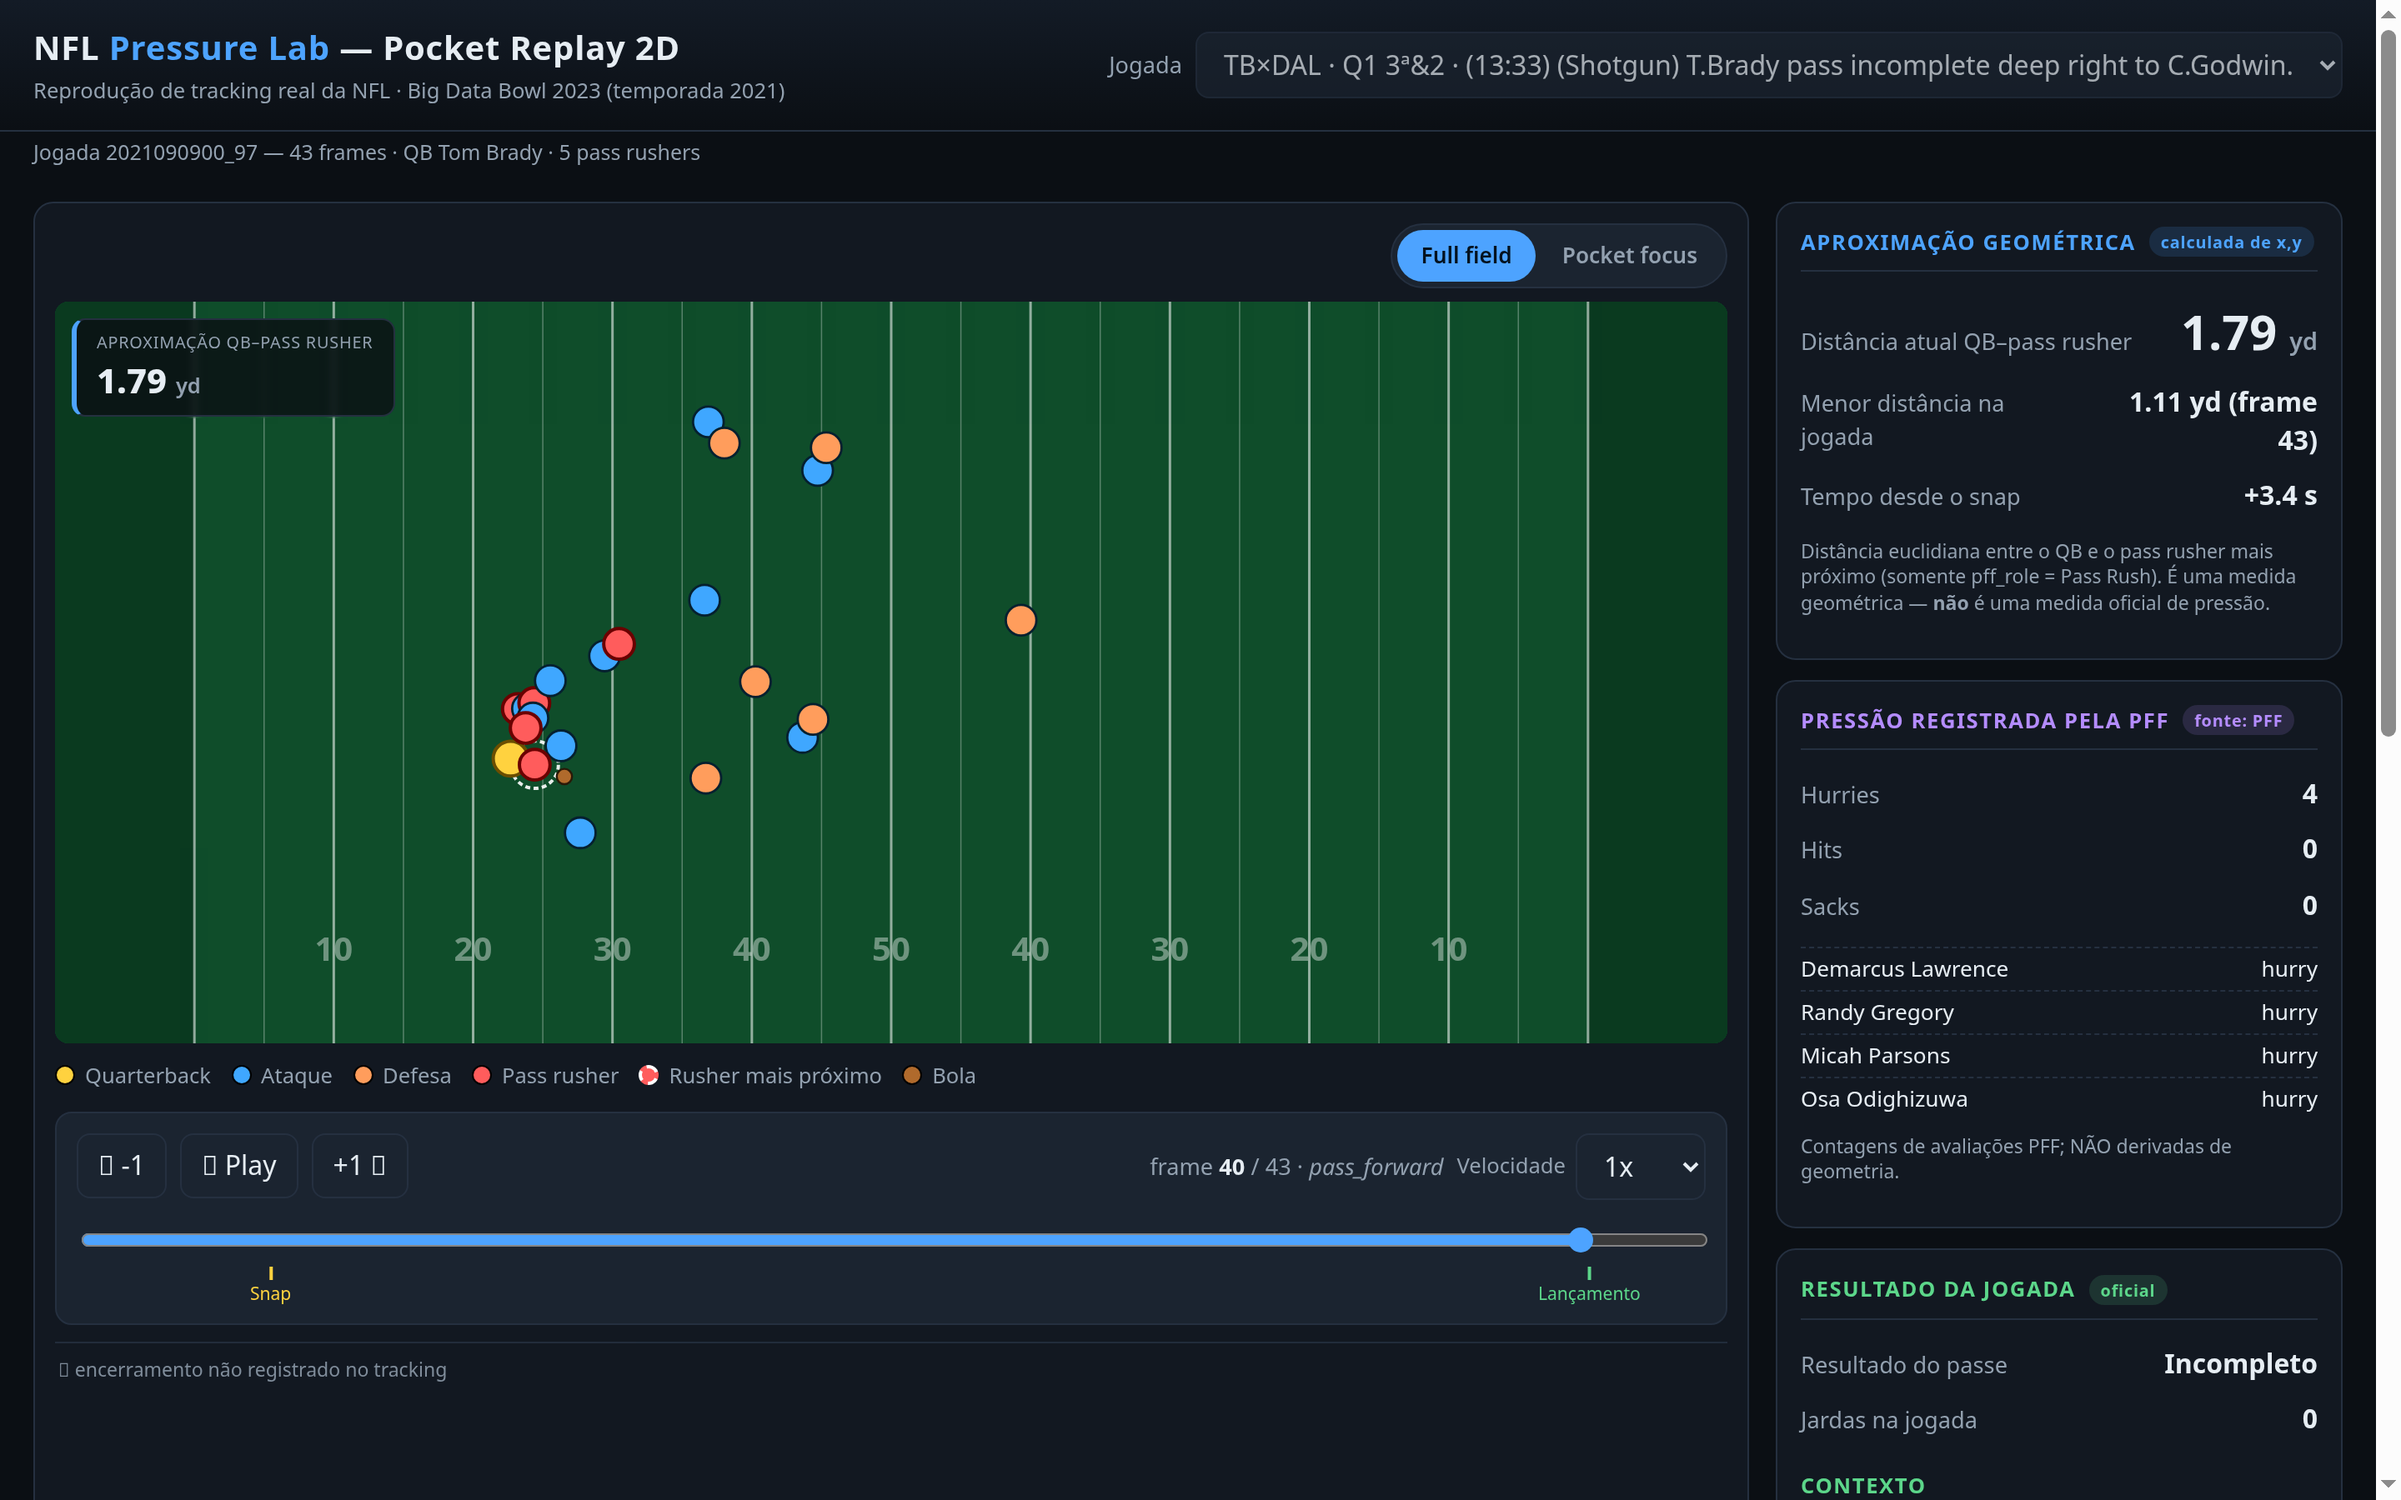
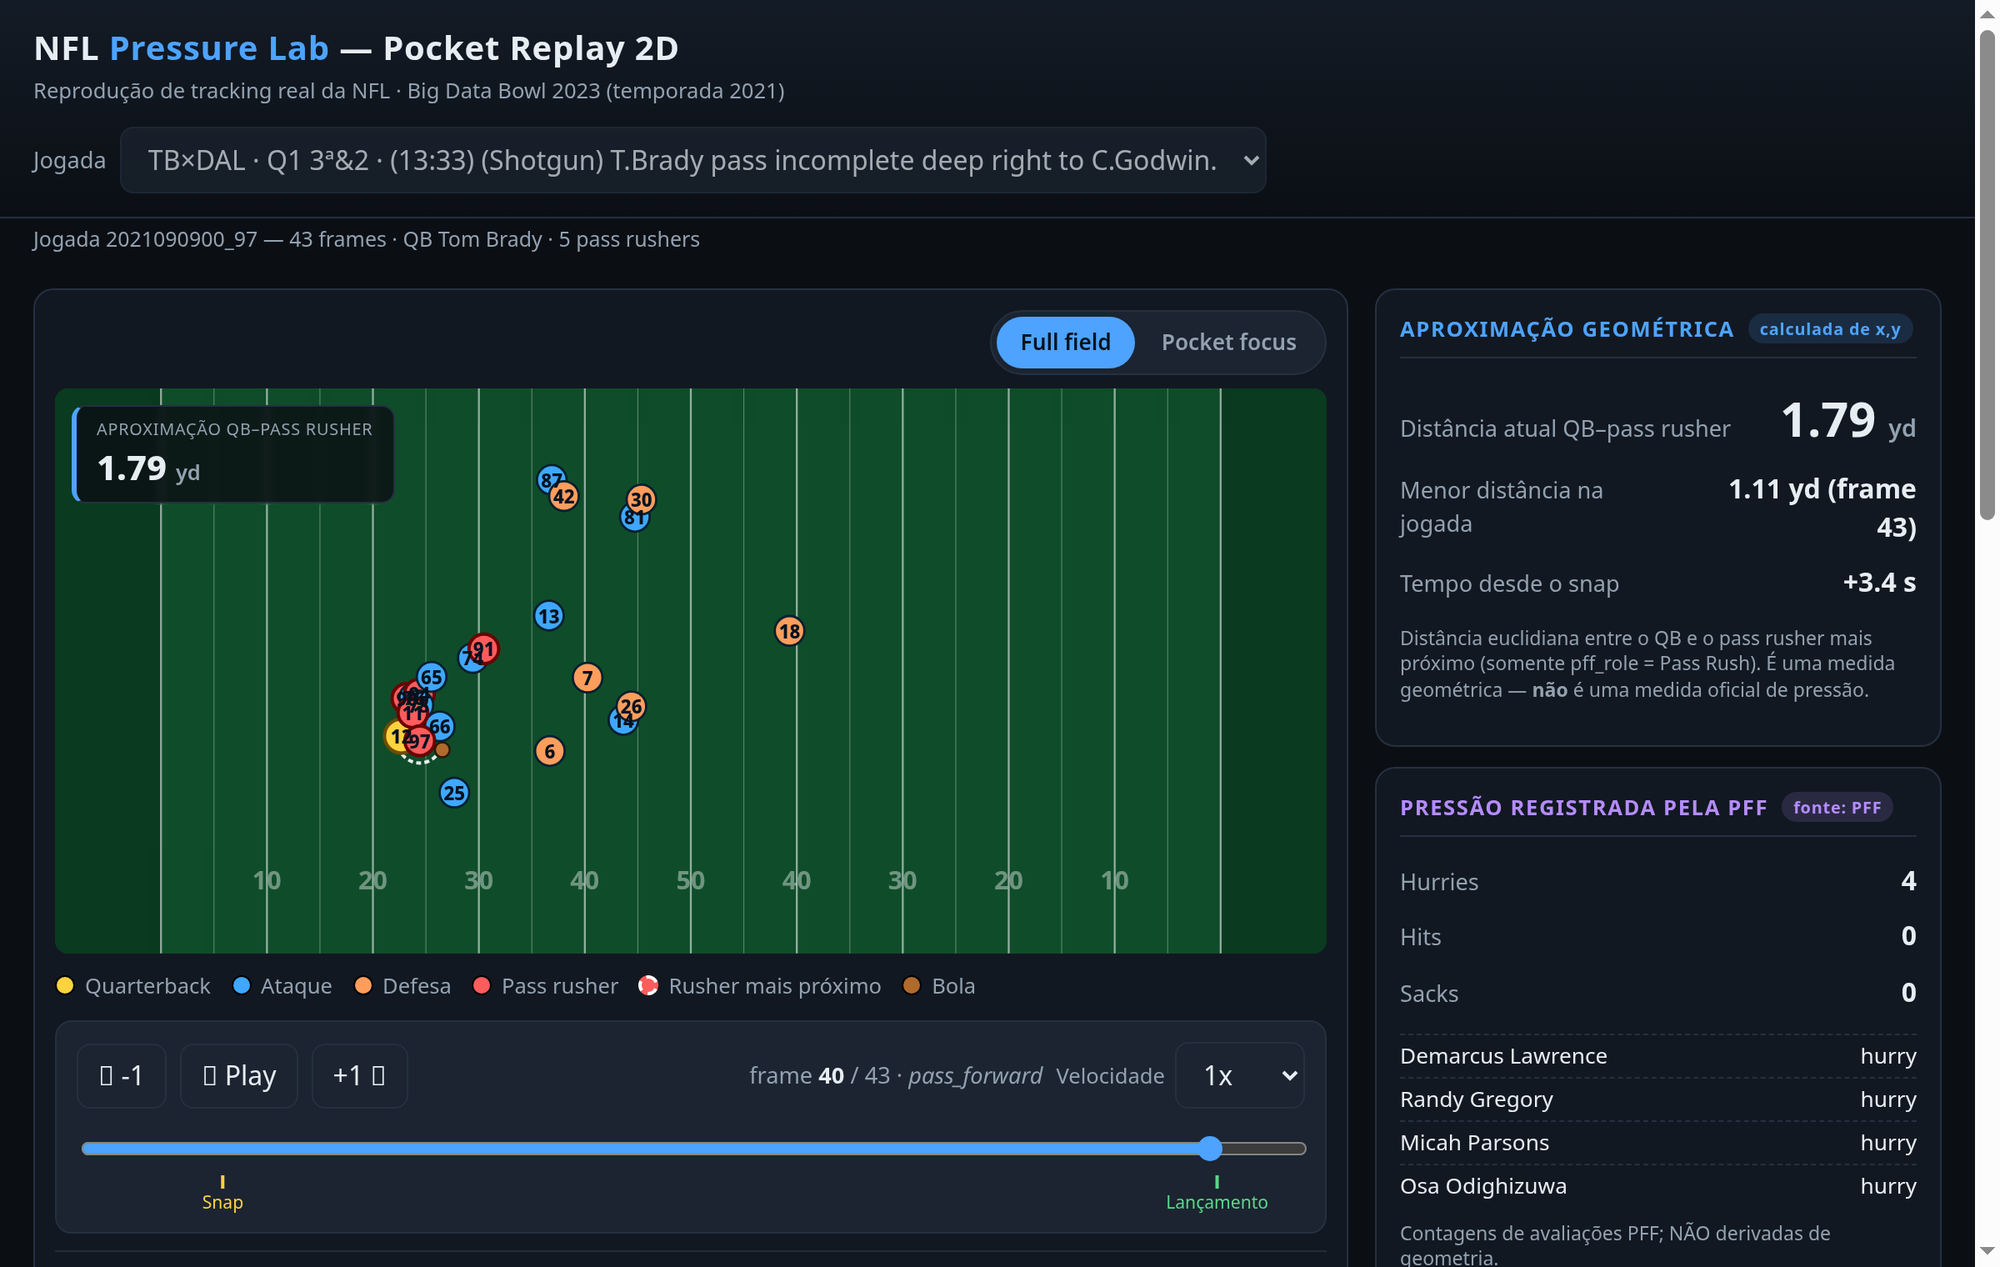
Unify replay marker styling and regenerate static visuals

diff --git a/app/js/field-renderer.js b/app/js/field-renderer.js
@@ -85,7 +85,7 @@
     svg.appendChild(this.gLabels);
 
     // Halo do pass rusher mais próximo (pintado sob os jogadores).
-    this.closestHalo = el("circle", { class: "closest-halo", r: 1.7, cx: -10, cy: -10, visibility: "hidden" });
+    this.closestHalo = el("circle", { class: "closest-halo", r: 2.1, cx: -10, cy: -10, visibility: "hidden" });
     this.gLine.appendChild(this.closestHalo);
 
     // Linha de aproximação (criada uma vez, escondida até haver dados)
@@ -136,8 +136,8 @@
       const base = parseFloat(node.dataset.baseR);
       if (!isNaN(base)) node.setAttribute("r", (base * scale).toFixed(3));
     });
-    if (this.ballNode) this.ballNode.setAttribute("r", (0.55 * scale).toFixed(3));
-    if (this.closestHalo) this.closestHalo.setAttribute("r", (1.7 * scale).toFixed(3));
+    if (this.ballNode) this.ballNode.setAttribute("r", (0.7 * scale).toFixed(3));
+    if (this.closestHalo) this.closestHalo.setAttribute("r", (2.1 * scale).toFixed(3));
   };
 
   // Cria os elementos dos jogadores uma única vez (reusados a cada frame).
@@ -157,7 +157,7 @@
       else if (p.side === "offense") cls += "offense";
       else cls += "defense";
 
-      const baseR = p.isQB ? 1.25 : 1.1;
+      const baseR = p.isQB ? 1.6 : 1.4;
       const c = el("circle", { class: cls, r: baseR, cx: -10, cy: -10 });
       c.dataset.baseR = baseR;
       const title = el("title", {});
@@ -173,7 +173,7 @@
     });
 
     // bola
-    this.ballNode = el("circle", { class: "ball-marker", r: 0.55, cx: -10, cy: -10 });
+    this.ballNode = el("circle", { class: "ball-marker", r: 0.7, cx: -10, cy: -10 });
     const bt = el("title", {}); bt.textContent = "Bola"; this.ballNode.appendChild(bt);
     this.gBall.appendChild(this.ballNode);
   };

diff --git a/app/css/styles.css b/app/css/styles.css
@@ -159,11 +159,11 @@ main > .chart-wrap { grid-column: 1; grid-row: 2; margin: 0; max-width: none; }
 .jersey-label {
   fill: #04121f; font-weight: 800; text-anchor: middle; dominant-baseline: central;
   pointer-events: none;
-  font-size: calc(1.6px * var(--zoom-scale, 1));
+  font-size: calc(2px * var(--zoom-scale, 1));
 }
-/* Em FULL FIELD, a alta concentração de jogadores torna os números ilegíveis;
-   escondemos os rótulos e mantemos a identificação via tooltip (hover). */
-#field:not(.pocket) .jersey-label { display: none; }
+/* Em FULL FIELD há alta concentração de jogadores; mostramos os números com
+   um leve halo claro para legibilidade e mantemos o tooltip (hover). */
+#field:not(.pocket) .jersey-label { font-size: calc(1.75px * var(--zoom-scale, 1)); }
 
 .approach-line {
   stroke: var(--c-rusher); stroke-width: 2; stroke-dasharray: 4 3;
